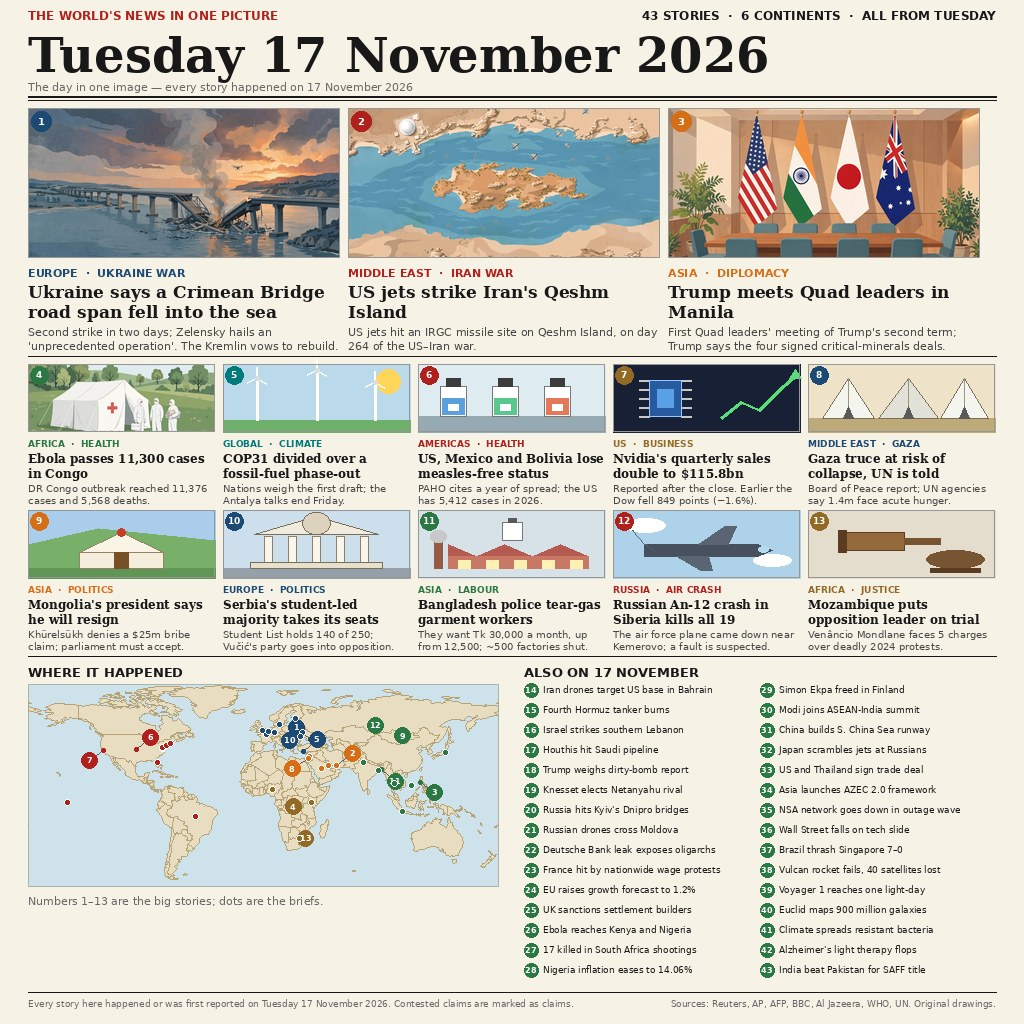
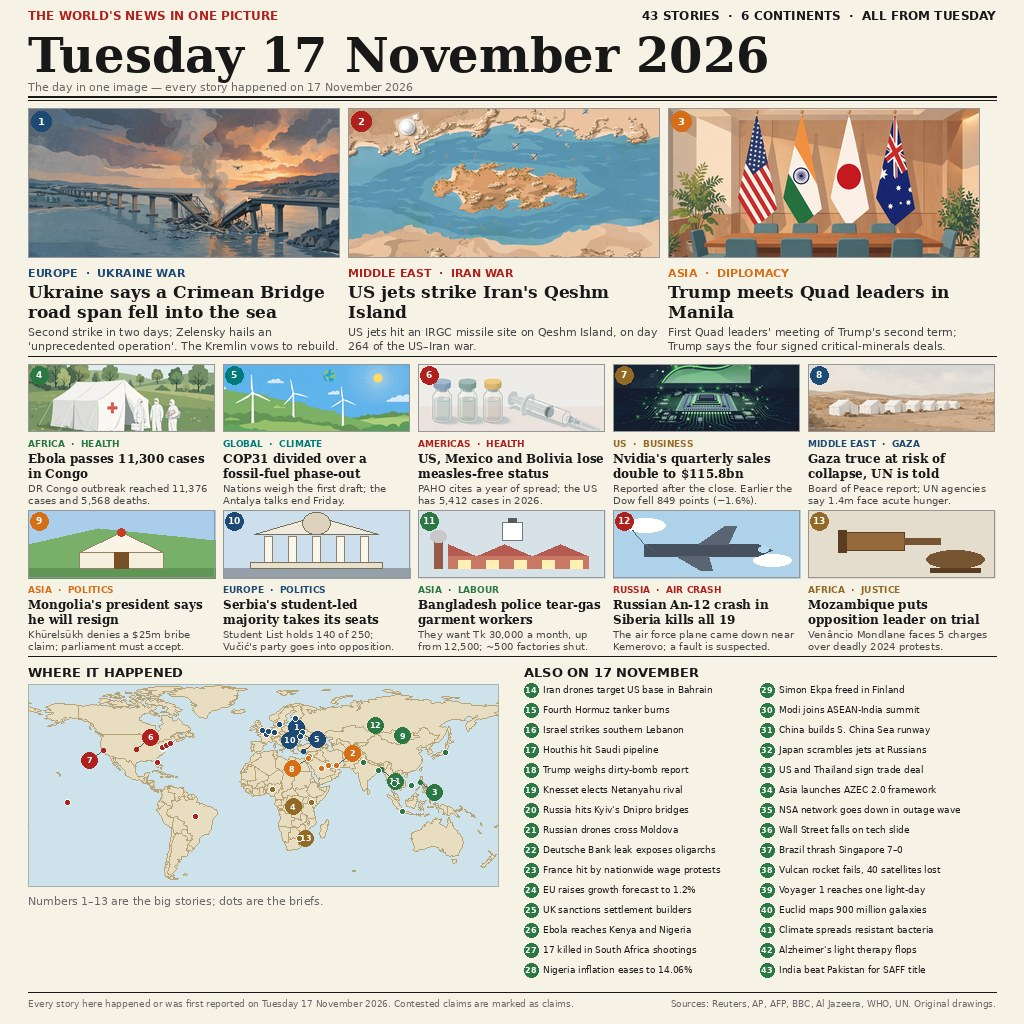
v4: AI art for all row-2 medium stories

Changed region(s): [[0.2188, 0.3438, 0.5938, 0.4375], [0.625, 0.3438, 0.9688, 0.4375]]

diff --git a/build/build_frontpage.py b/build/build_frontpage.py
@@ -1,10 +1,10 @@
 #!/usr/bin/env python3
-"""Render the make.fun news-image-20261117 front page, v3 (1024x1024 JPEG).
+"""Render the make.fun news-image-20261117 front page, v4 (1024x1024 JPEG).
 
 Newspaper front page for Tuesday 17 November 2026: 43 verified stories.
 Three large leads with rich AI illustrations (Kerch Bridge, Hormuz strait
-map, Quad summit), ten medium stories (one AI illustration for Ebola, nine
-refined PIL drawings), a world map with story dots, and a 30-brief column.
+map, Quad summit), ten medium stories (five AI illustrations, five refined
+PIL drawings), a world map with story dots, and a 30-brief column.
 All facts verified against reporting dated 17 Nov 2026; nothing invented.
 Output is deterministic.
 """
@@ -301,16 +301,16 @@ ROW2 = [
     dict(n=4, kick="AFRICA  ·  HEALTH", col=GREEN, ai="ebola",
          head="Ebola passes 11,300 cases in Congo",
          fact="DR Congo outbreak reached 11,376 cases and 5,568 deaths."),
-    dict(n=5, kick="GLOBAL  ·  CLIMATE", col=TEAL, art="turbines",
+    dict(n=5, kick="GLOBAL  ·  CLIMATE", col=TEAL, ai="cop31",
          head="COP31 divided over a fossil-fuel phase-out",
          fact="Nations weigh the first draft; the Antalya talks end Friday."),
-    dict(n=6, kick="AMERICAS  ·  HEALTH", col=RED, art="vials",
+    dict(n=6, kick="AMERICAS  ·  HEALTH", col=RED, ai="measles",
          head="US, Mexico and Bolivia lose measles-free status",
          fact="PAHO cites a year of spread; the US has 5,412 cases in 2026."),
-    dict(n=7, kick="US  ·  BUSINESS", col=BROWN, art="chip",
+    dict(n=7, kick="US  ·  BUSINESS", col=BROWN, ai="nvidia",
          head="Nvidia's quarterly sales double to $115.8bn",
          fact="Reported after the close. Earlier the Dow fell 849 points (−1.6%)."),
-    dict(n=8, kick="MIDDLE EAST  ·  GAZA", col=BLUE, art="tents",
+    dict(n=8, kick="MIDDLE EAST  ·  GAZA", col=BLUE, ai="gaza",
          head="Gaza truce at risk of collapse, UN is told",
          fact="Board of Peace report; UN agencies say 1.4m face acute hunger."),
 ]
@@ -336,14 +336,24 @@ ROW3 = [
 
 MED_W = 187
 
+# AI illustrations for medium stories: filename + vertical focus (0=top, 1=bottom).
+# Nvidia uses focus 1.0 so the crop is bottom-biased: the chip (lower half)
+# dominates the slot and the green chart reads as background, not the subject.
+AI_MED = {
+    "ebola": ("media-generation-ebola-tent-0-b4886177-b384-4ea4-b19f-d12ee522edf9.webp", 0.55),
+    "cop31": ("media-generation-cop31-turbines-0-81efe71d-469c-41a3-8966-3c9878b0912b.webp", 0.5),
+    "measles": ("media-generation-measles-vials-0-1f9c6990-d285-4524-8950-2a8fe8c8dfb3.webp", 0.5),
+    "nvidia": ("media-generation-nvidia-chip-0-96477f16-5138-4abb-98b0-1a1f1d37750c.webp", 1.0),
+    "gaza": ("media-generation-gaza-aid-0-c922f5c9-f2a6-4c08-8434-451480e05886.webp", 0.5),
+}
+
 
 def draw_medium_row(stories, y0):
     for i, s in enumerate(stories):
         x = 28 + i * (MED_W + 8)
-        if s.get("ai") == "ebola":
-            im_ai = load_ai(
-                "media-generation-ebola-tent-0-b4886177-b384-4ea4-b19f-d12ee522edf9.webp",
-                MED_W, 68, focus=0.55)
+        if s.get("ai"):
+            fname, focus = AI_MED[s["ai"]]
+            im_ai = load_ai(fname, MED_W, 68, focus=focus)
             img.paste(im_ai, (x, y0))
         else:
             ART[s["art"]](x, y0, MED_W, 68)
